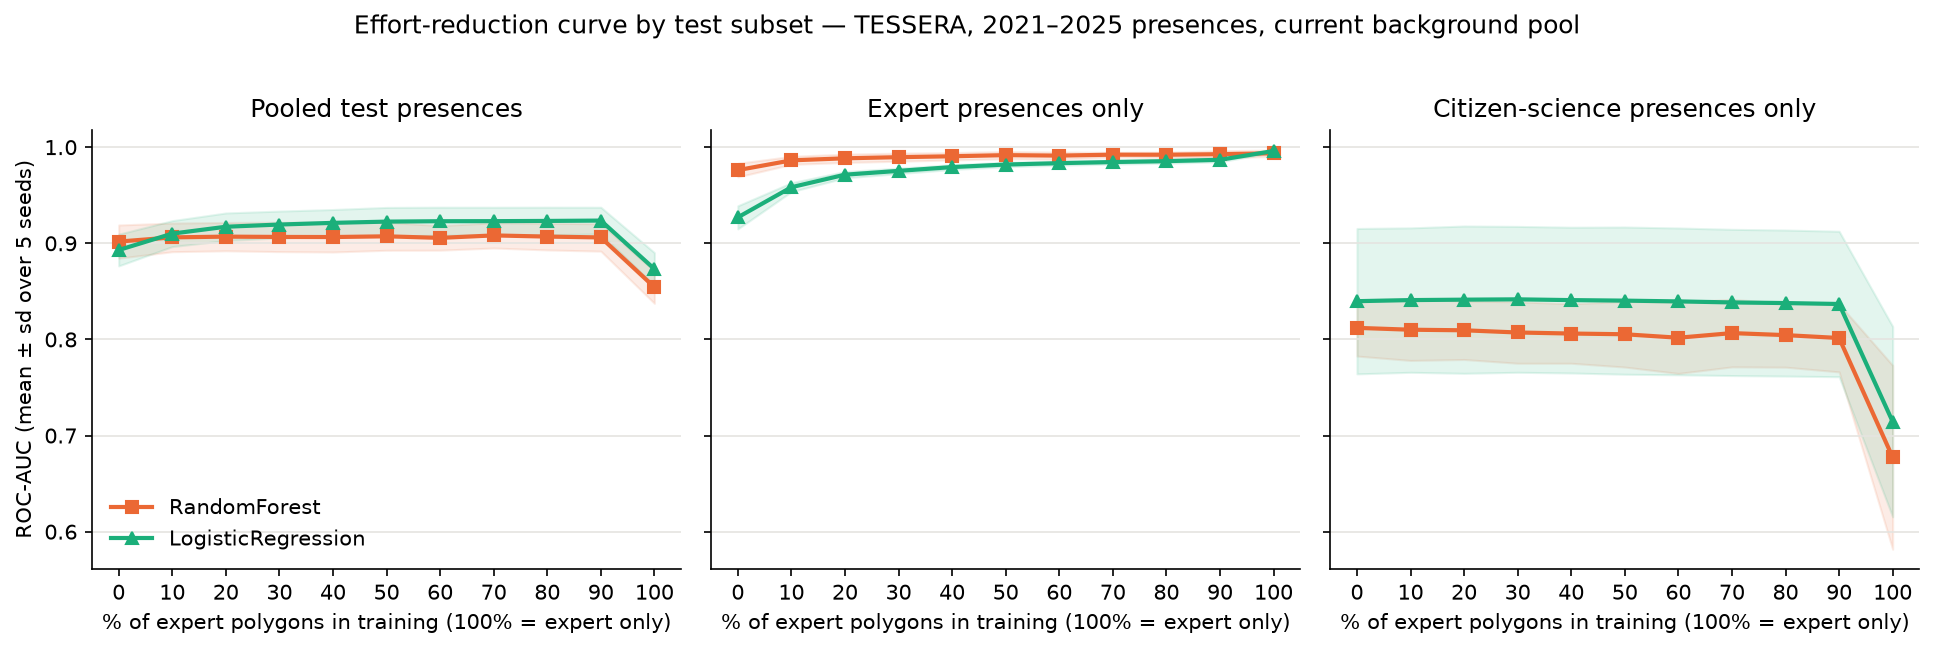
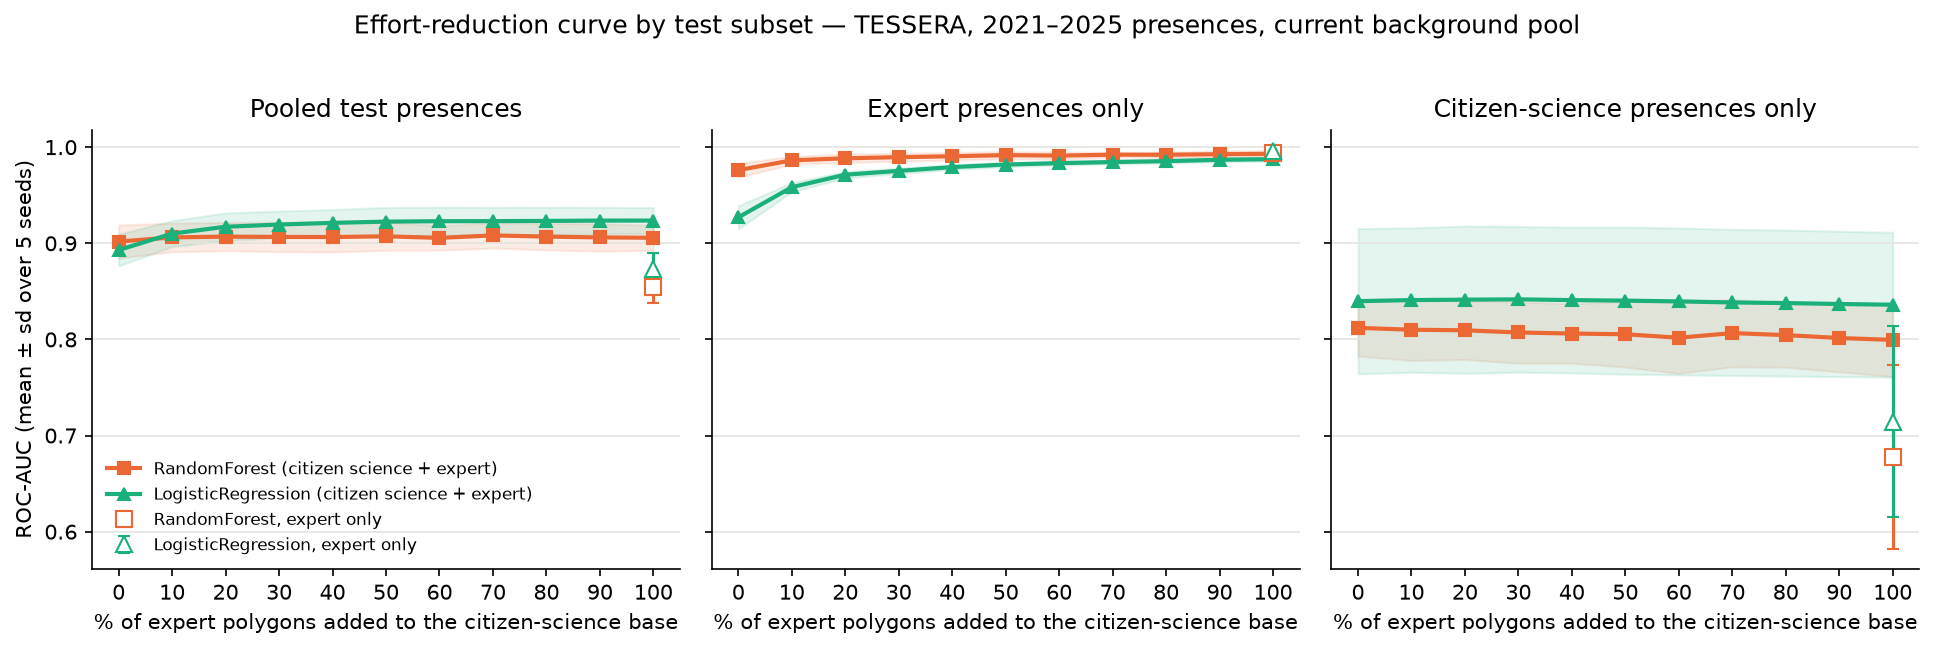
Report expert plus citizen-science level of effort curve

diff --git a/docs/research_questions.md b/docs/research_questions.md
@@ -45,9 +45,9 @@ training data for mapping *A. dealbata* in the Coimbra district.
 
 **Specific objectives:**
 
-1. To measure the performance gained by adding 10% to 90% of the
+1. To measure the performance gained by adding 10% to 100% of the
    expert polygons to a citizen-science base, to compare it with the
-   expert-only case (100%), and to report the performance of the
+   expert-only model, and to report the performance of the
    citizen-science-only model on expert reference data (RQ1).
 2. To build and document the process that turns citizen-science point
    observations into reference data, and to measure how its grade and
@@ -145,8 +145,12 @@ analysis, reported next to it.
 **Design (curve idea: supervisor; details: mine, to confirm with
 him):** an effort-reduction curve. Expert data are
 added on top of a fixed citizen-science base, from 0% to 100% in
-10-point steps; at 100% the citizen-science base is removed and
-training is expert-only. The mixing unit is the polygon, sampled in a
+10-point steps, so the citizen-science base is in training at every
+level. The **expert-only** model (no citizen science) is a separate
+reference point, not a level of the curve (to confirm with the
+supervisor:
+[`thesis/notes.md`](../thesis/notes.md#curva-100-mais-ciencia-cidada)).
+The mixing unit is the polygon, sampled in a
 nested order; the percentages are of the 1 457 polygons that hold at
 least one pixel with a stored embedding, of the 1 849 in the district;
 one spatial test set per seed is reused at every level
@@ -162,11 +166,13 @@ classifier and Logistic Regression is reported as a second one. Why:
 supervisor):** the answer depends on the classifier and on the test
 presences. On the pooled test set, Random Forest gains about 0.005
 ROC-AUC with the first 10% to 20% of expert polygons and no more after
-(0.902 at 0%, 0.906 at 90%); Logistic Regression gains 0.031. On
-expert presences alone, the citizen-science-only Random Forest reaches
-0.976, against 0.994 for the expert-only model. The pooled drop at
-100% (0.854) comes from the citizen-science test presences, which
-likely share the sampling bias of the training data.
+(0.902 at 0%, 0.906 at 90% and at 100%); Logistic Regression gains
+0.031. On expert presences alone, the citizen-science-only Random
+Forest reaches 0.976, against 0.994 for the expert-only model. The
+expert-only model scores lower on the pooled test set (0.854) only
+because of the citizen-science test presences (0.677, against 0.799
+for 100% plus citizen science), which likely share the sampling bias
+of the training data.
 
 **Reading:** the citizen-science-only model ranks the sites mapped by
 experts well. That may reflect expert presences that are easier to

diff --git a/docs/guia_perguntas.md b/docs/guia_perguntas.md
@@ -9,7 +9,8 @@
 > decisão) e [`todo.md`](todo.md) (tarefas).
 >
 > Não tem decisões novas. Todos os números vêm desses ficheiros ou de
-> `results/effort_reduction_curve/` (execução de 2026-11-13).
+> `results/effort_reduction_curve/` (execuções de 2026-11-13 e
+> 2026-11-14).
 
 ## 1. A ideia da tese numa página
 
@@ -104,8 +105,12 @@ orientador (reunião de 2026-11-05); os pormenores são teus.
 - Por cima acrescentam-se polígonos de especialistas: 0%, 10%, …, 90%
   dos 1 457 polígonos com embedding guardado. Os de 20% incluem os de
   10% (ordem encaixada).
-- A 100% a base de ciência cidadã sai: o modelo treina só com
-  especialistas (2 771 píxeis).
+- A 100% entram todos os polígonos, e a ciência cidadã continua lá
+  (5 235 presenças de treino). A curva é aditiva até ao fim.
+- À parte, como ponto de referência, há o modelo **só de
+  especialistas** (2 771 píxeis, sem ciência cidadã). É o termo de
+  comparação da pergunta principal. Decisão de 2026-11-14, por
+  confirmar com o orientador; antes, o "100%" era este modelo.
 - O conjunto de teste de cada semente é o mesmo em todos os níveis e
   tem sempre presenças das duas fontes.
 
@@ -131,7 +136,8 @@ sementes, ROC-AUC):
 | 0% (só ciência cidadã) | 0,902 | 0,976 | 0,812 | 0,893 |
 | 20% | 0,907 | 0,988 | 0,810 | 0,917 |
 | 90% | 0,906 | 0,993 | 0,801 | 0,924 |
-| 100% (só especialistas) | 0,854 | 0,994 | 0,677 | 0,873 |
+| 100% + ciência cidadã | 0,906 | 0,993 | 0,799 | 0,924 |
+| Só especialistas (referência) | 0,854 | 0,994 | 0,677 | 0,873 |
 
 Diferenças emparelhadas, 90% menos 0%:
 
@@ -151,9 +157,12 @@ Diferenças emparelhadas, 90% menos 0%:
   presenças de especialistas, acrescentam um pouco.
 - **O modelo só de ciência cidadã ordena bem os sítios mapeados pelos
   especialistas** (0,976, contra 0,994 do modelo só de especialistas).
-- **A queda a 100% no teste global** (0,854) vem das presenças de
-  teste de ciência cidadã (0,812 → 0,677). Explicação provável, não
-  testada: essas presenças partilham o enviesamento de amostragem do
+- **A curva fica plana até ao fim:** de 90% para 100% + ciência
+  cidadã nada muda. O valor mais baixo do modelo só de especialistas
+  no teste global (0,854) vem de lhe faltar a ciência cidadã: nas
+  presenças de especialistas fica igual (0,994 contra 0,993), nas de
+  ciência cidadã perde 0,122 (0,677 contra 0,799). Explicação
+  provável, não testada: essas presenças partilham o enviesamento de amostragem do
   treino de ciência cidadã, por isso o teste global favorece quem
   treinou com ela. Não quer dizer que o modelo de especialistas seja
   pior.

diff --git a/thesis/notes.md b/thesis/notes.md
@@ -2384,6 +2384,43 @@ corridas de novo e ficam sem o nível novo.
 **Na tese:** ⏳ Ainda não escrita (Metodologia e Resultados
 preliminares, ainda esqueletos).
 
+**O que deu (corrida de 2026-11-14, `results/effort_reduction_curve/`,
+commit `5add326`):**
+
+- **Critério de implementação cumprido:** as sete tabelas que já
+  existiam saíram iguais byte a byte às da corrida de 2026-11-13. Só
+  mudou o `run.json`; as duas tabelas novas são
+  `plus_cs_per_seed.csv` e `plus_cs_paired_differences.csv`.
+- **N de treino nominal do nível novo:** 1 457 polígonos (2 771
+  píxeis) mais 2 464 presenças de ciência cidadã, 5 235 no total.
+
+ROC-AUC, média de cinco sementes; diferença emparelhada (dp; sementes
+a subir/a descer):
+
+| Classificador, teste | 100% + CC | menos 0% | menos 90% | menos só especialistas |
+|---|---|---|---|---|
+| RF, global | 0,906 | +0,004 (0,006; 3/2) | −0,000 (0,002; 3/2) | +0,051 (0,016; 5/0) |
+| RF, só especialistas | 0,993 | +0,017 (0,006; 5/0) | +0,000 (0,000; 4/1) | −0,001 (0,000; 0/5) |
+| RF, só ciência cidadã | 0,799 | −0,013 (0,017; 2/3) | −0,002 (0,005; 2/3) | +0,122 (0,062; 5/0) |
+| LR, global | 0,924 | +0,031 (0,007; 5/0) | +0,000 (0,000; 2/3) | +0,050 (0,026; 5/0) |
+| LR, só especialistas | 0,988 | +0,061 (0,012; 5/0) | +0,001 (0,000; 5/0) | −0,008 (0,002; 0/5) |
+| LR, só ciência cidadã | 0,836 | −0,004 (0,014; 2/3) | −0,001 (0,001; 1/4) | +0,122 (0,075; 5/0) |
+
+Boyce do RF no teste global: 0,995 no nível novo, igual ao de 0% e
+de 90%.
+
+**Leitura:**
+- **A curva aditiva fica plana até ao fim.** Do 90% para o 100% + CC
+  nada muda (diferenças de 0,000 a 0,002). A queda que se via a 100%
+  vinha de tirar a ciência cidadã, não de acrescentar especialistas.
+- **Contra o modelo só de especialistas:** nas presenças de
+  especialistas, juntar a ciência cidadã quase não custa (RF −0,001,
+  LR −0,008, mas a descer nas cinco sementes); nas presenças de
+  ciência cidadã ganha +0,122. Que isto venha de o teste de ciência
+  cidadã partilhar o enviesamento do treino continua a ser hipótese,
+  não testada.
+- A comparação principal (90% contra 0%) e a sua leitura não mudam.
+
 ## Decisões: validação e Sentinel-2
 
 ### Validação espacial no lado dos especialistas: zona-tampão, além dos blocos de 10 km
